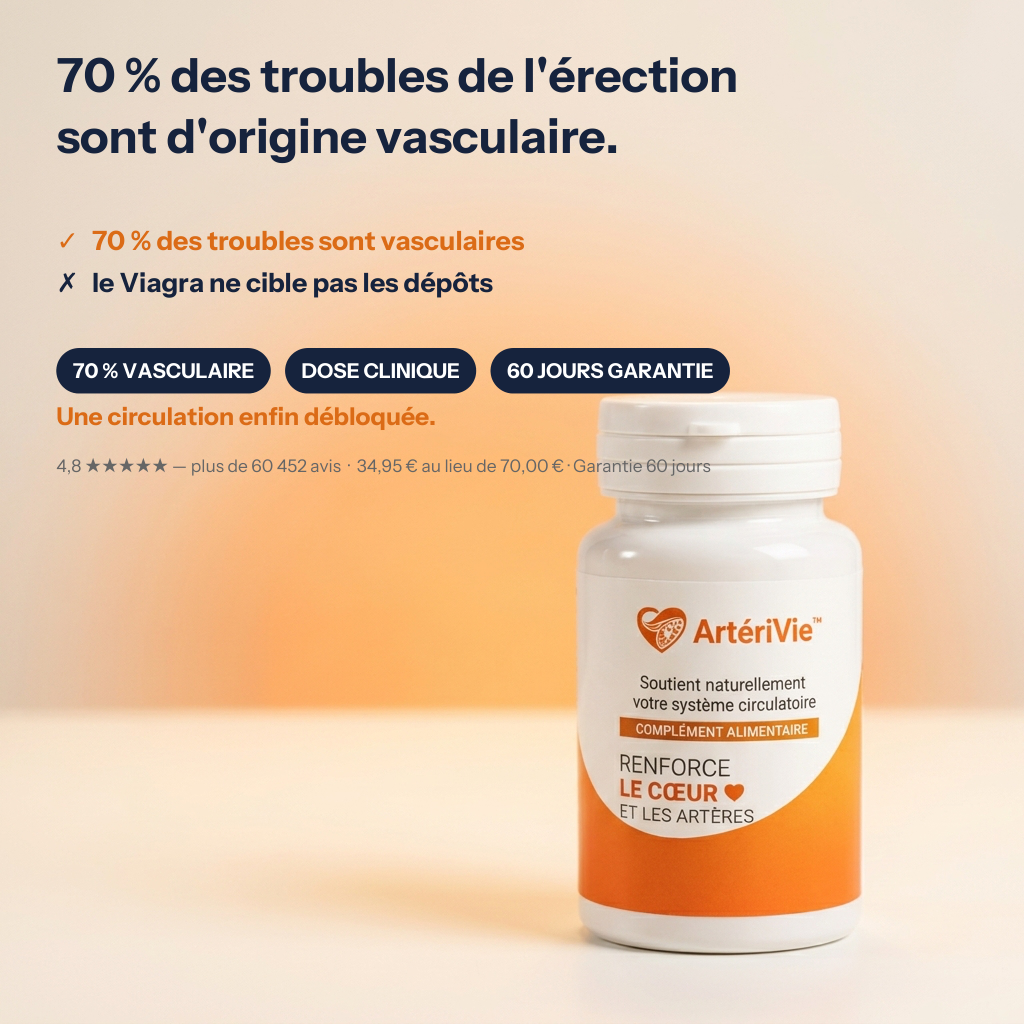
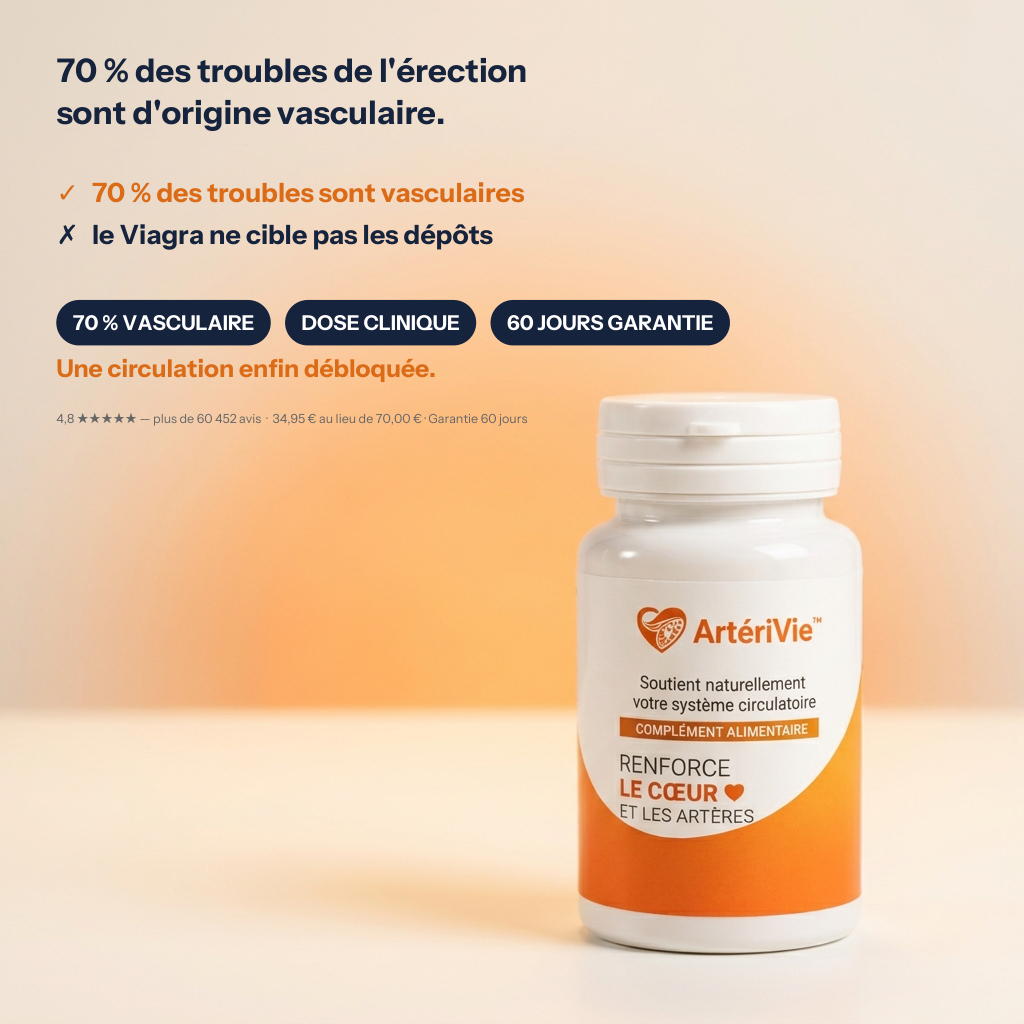
ArtériVie topup: fix text layout — clustered at top, dead space below
Every P and F concept anchored its text block near the top and let
content length decide where it ended, leaving 40-50% of several images
(P1, P3, P6, F1, F2 worst) as unbalanced empty space below. Reworked P's
layout to a measure-then-centre pass (block height computed first, then
vertically centred in each concept's actual open zone) and widened F's
internal spacing to use more of the frame instead of clustering under
the masthead. Fixed two overlaps the first centering pass introduced
(P1/P4/P5 text dropping into their own bottle, F4's quote reaching its
diagram) before shipping.

Duplicate gate re-verified after the layout changes: still 0/190 pairs
over the hard gate.

Changed region(s): [[0.0312, 0.0312, 0.7188, 0.4688]]

diff --git a/.claude/skills/static-remix/runs/20260831-arterivie-topup/compose.py b/.claude/skills/static-remix/runs/20260831-arterivie-topup/compose.py
@@ -81,17 +81,22 @@ P_DATA = {
 PRICE_LINE = "34,95 € au lieu de 70,00 € · Garantie 60 jours"
 PROOF_LINE = "4,8 ★★★★★ — plus de 60 452 avis"
 
-# per-concept text anchor (x, headline top-y, text alignment) matching each base photo's own
-# open space — alignment also varies the proof/price line's position instead of a uniform
-# full-width band, which was the single biggest shared shape in the first pass.
+# per-concept text anchor (x, alignment) plus the VERTICAL ZONE (top, bottom) actually open
+# in that column of the base photo. The first pass anchored every concept near the top and
+# let the block's own height decide where it ended — on the 4 concepts with no badges row
+# that left 40-50% of the frame empty below the text, floating with nothing to balance it
+# against. Now the block is measured first and centred within its zone instead.
 P_LAYOUT = {
-    "P1_base": (0.055, 0.09, "left"),
-    "P2_base": (0.50, 0.09, "right"),
-    "P3_base": (0.06, 0.075, "left"),
-    "P4_base": (0.055, 0.09, "left"),
-    "P5_base": (0.50, 0.08, "right"),
-    "P6_base": (0.045, 0.10, "left"),
-    "P7_base": (0.50, 0.09, "right"),
+    # (x, align, zone_top, zone_bottom, avail_override) — avail_override caps text width so
+    # a line never stretches under the bottle even when the bottle sits low but wide; None
+    # falls back to the full remaining-frame-width default.
+    "P1_base": (0.055, "left", 0.08, 0.40, 0.46),   # bottle cap starts ~x0.55, widens fast below y0.4
+    "P2_base": (0.50, "right", 0.08, 0.90, None),   # bottle lower-left only; right column clear full height
+    "P3_base": (0.06, "left", 0.08, 0.58, None),    # bottle bottom-centre ~0.62-0.95; zone stops above it
+    "P4_base": (0.055, "left", 0.08, 0.38, None),   # diagonal bottle spans nearly full width below y0.42
+    "P5_base": (0.50, "right", 0.08, 0.36, None),   # diagonal bottle reaches into the right column below y0.4
+    "P6_base": (0.045, "left", 0.16, 0.90, None),   # small bottle, upper-right corner only
+    "P7_base": (0.50, "right", 0.08, 0.90, None),   # macro crop, hard left/right split full height
 }
 
 def _wrap2(text):
@@ -118,6 +123,50 @@ def _fit(c, text, key, avail, cap):
     w = c.measure(text, key, ref)
     return min(avail / w * ref if w > 0 else cap, cap)
 
+def _p_layout_pass(c, d, x, avail, headline_c, check_c, badge_fill, y0, draw):
+    """Runs the P block's full layout math once. draw=False just measures (returns the
+    final y with nothing rendered); draw=True actually paints at that same y0. Keeping one
+    function for both means the measured height and the drawn height can never drift apart."""
+    size = min(0.046, *(_fit(c, line, "sans-bold", avail, 0.046) for line in d["headline"]))
+    gap = size * 1.3
+    if draw:
+        for i, line in enumerate(d["headline"]):
+            c.text(x, y0 + i * gap, line, key="sans-bold", size=size, color=headline_c, shadow=False)
+    y = y0 + len(d["headline"]) * gap + 0.035
+    csize = min(0.026, _fit(c, "✓ " + d["good"], "sans-bold", avail, 0.026),
+                _fit(c, "✗ " + d["bad"], "sans-bold", avail, 0.026))
+    if draw:
+        check_line(c, x, y, "✓", d["good"], csize, check_c)
+        check_line(c, x, y + csize * 1.55, "✗", d["bad"], csize, headline_c)
+    by = y + csize * 1.55 + 0.055
+    if d["badges"]:
+        bx = x
+        badge_size, padx = 0.020, 0.016
+        for b in d["badges"]:
+            w = c.measure(b, "sans-bold", badge_size) + 2 * padx
+            if bx + w > 0.97:
+                bx = x
+                by += 0.052
+            if draw:
+                bx2, _ = c.badge(bx, by, b, key="sans-bold", size=badge_size, fill=badge_fill,
+                                  color=WHITE, padx=padx, pady=0.012, radius=0.5)
+                bx = bx2 + 0.014
+            else:
+                bx += w + 0.014
+        by += 0.075
+    else:
+        by += 0.02
+    tsize = _fit(c, d["tagline"], "sans-bold", avail, 0.024)
+    if draw:
+        c.text(x, by, d["tagline"], key="sans-bold", size=tsize, color=check_c, shadow=False)
+    proof = f"{PROOF_LINE}  ·  {PRICE_LINE}"
+    psize = _fit(c, proof, "sans", avail, 0.017)
+    end_y = by + tsize * 1.9
+    if draw:
+        c.text(x, end_y, proof, key="sans", size=psize, color=(0.4, 0.4, 0.4), shadow=False)
+    return end_y
+
+
 def make_p_job(name):
     def _job():
         d = P_DATA[name]
@@ -126,40 +175,14 @@ def make_p_job(name):
 
         headline_c, check_c, badge_fill = (NAVY, ORANGE, NAVY) if d["scheme"] == "navy" else (ORANGE, NAVY, ORANGE)
         c = Composer(p(name))
-        x, y0, align = P_LAYOUT[name]
-        avail = 0.97 - x
-        size = min(0.046, *(_fit(c, line, "sans-bold", avail, 0.046) for line in d["headline"]))
-        gap = size * 1.3
-        for i, line in enumerate(d["headline"]):
-            c.text(x, y0 + i * gap, line, key="sans-bold", size=size, color=headline_c, shadow=False)
-        y = y0 + len(d["headline"]) * gap + 0.035
-        csize = min(0.026, _fit(c, "✓ " + d["good"], "sans-bold", avail, 0.026),
-                    _fit(c, "✗ " + d["bad"], "sans-bold", avail, 0.026))
-        check_line(c, x, y, "✓", d["good"], csize, check_c)
-        check_line(c, x, y + csize * 1.55, "✗", d["bad"], csize, headline_c)
-        by = y + csize * 1.55 + 0.055
-        if d["badges"]:
-            bx = x
-            badge_size, padx = 0.020, 0.016
-            for b in d["badges"]:
-                w = c.measure(b, "sans-bold", badge_size) + 2 * padx
-                if bx + w > 0.97:
-                    bx = x
-                    by += 0.052
-                bx2, _ = c.badge(bx, by, b, key="sans-bold", size=badge_size, fill=badge_fill,
-                                  color=WHITE, padx=padx, pady=0.012, radius=0.5)
-                bx = bx2 + 0.014
-            by += 0.075
-        else:
-            by += 0.02
-        tsize = _fit(c, d["tagline"], "sans-bold", avail, 0.024)
-        c.text(x, by, d["tagline"], key="sans-bold", size=tsize, color=check_c, shadow=False)
-        # proof/price: plain small text right under the tagline, no solid band and no fixed
-        # cross-image y — each concept's block simply ends wherever its own content ends.
-        proof = f"{PROOF_LINE}  ·  {PRICE_LINE}"
-        psize = _fit(c, proof, "sans", avail, 0.017)
-        c.text(x, by + tsize * 1.9, proof, key="sans", size=psize, color=(0.4, 0.4, 0.4),
-               shadow=False)
+        x, align, zone_top, zone_bottom, avail_override = P_LAYOUT[name]
+        avail = avail_override if avail_override is not None else 0.97 - x
+        # measure pass: how tall is this concept's own block, unaffected by where it starts?
+        measured_end = _p_layout_pass(c, d, x, avail, headline_c, check_c, badge_fill,
+                                       y0=0.0, draw=False)
+        block_h = measured_end  # since y0=0.0, the returned end_y IS the height
+        y0 = zone_top + max(0.0, (zone_bottom - zone_top - block_h) / 2)
+        _p_layout_pass(c, d, x, avail, headline_c, check_c, badge_fill, y0=y0, draw=True)
         c.save(o(name))
     _job.__name__ = name
     return _job
@@ -170,11 +193,11 @@ for _n in P_DATA:
 
 # ---------------------------------------------------------------- F series: fake newspaper
 F_DATA = {
-    "F1_artery_diagram": dict(has_quote=True, y0=0.145,
+    "F1_artery_diagram": dict(has_quote=True, y0=0.20,
         headline=["UNE FORMULE CIBLÉE", "POUR LES ARTÈRES DU PÉNIS"],
         teaser="Les spécialistes s'intéressent de plus près au rôle des artères dans la circulation masculine.",
         quote="« Je ne savais même pas que c'était lié aux artères. »"),
-    "F2_heart_network": dict(has_quote=False, y0=0.20,
+    "F2_heart_network": dict(has_quote=False, y0=0.32,
         headline=["POURQUOI LE VIAGRA", "NE SUFFIT PLUS APRÈS 50 ANS"],
         teaser="Ce qui bloque vraiment la circulation ne se voit pas à l'œil nu.",
         quote="« Mon médecin ne m'en avait jamais parlé. »"),
@@ -182,7 +205,7 @@ F_DATA = {
         headline=["CE QUE LES CHERCHEURS SAVENT", "SUR LES ARTÈRES ET L'ÉRECTION"],
         teaser="Une étude de 2005 a changé la manière dont les chercheurs voient le problème.",
         quote="« Ça a changé ma façon de voir le problème. »"),
-    "F4_before_after_diagram": dict(has_quote=True, y0=0.19,
+    "F4_before_after_diagram": dict(has_quote=True, y0=0.19, tight=True,
         headline=["LA DIFFÉRENCE ENTRE UNE ARTÈRE", "SAINE ET UNE ARTÈRE OBSTRUÉE"],
         teaser="Une différence de 1 à 2 mm peut tout changer.",
         quote="« Une différence que j'ai sentie en quelques semaines. »"),
@@ -190,7 +213,7 @@ F_DATA = {
         headline=["UNE ROUTINE SIMPLE POUR", "SOUTENIR LE CŒUR ET LES ARTÈRES"],
         teaser="Une prise quotidienne, sans bouleverser sa routine.",
         quote="« C'est devenu un réflexe, comme se brosser les dents. »"),
-    "F6_pelvic_floor_diagram": dict(has_quote=True, y0=0.235,
+    "F6_pelvic_floor_diagram": dict(has_quote=True, y0=0.235, tight=True,
         headline=["CE QUE PERSONNE N'EXPLIQUE SUR", "LES TROUBLES DE L'ÉRECTION APRÈS 50 ANS"],
         teaser="La cause est plus simple qu'on ne le pense.",
         quote="« J'aurais aimé le savoir dix ans plus tôt. »"),
@@ -216,15 +239,22 @@ def make_f_job(name):
         for i, line in enumerate(d["headline"]):
             c.text(0.05, y0 + i * gap, line, key="sans-bold", size=size, color=(0.08, 0.08, 0.08),
                    shadow=False)
-        y = y0 + len(d["headline"]) * gap + 0.035
+        # spacing below deliberately generous — the diagram baked into the photo sits wherever
+        # it sits and can't be centred against, so instead of clustering everything at the top
+        # (leaving 40-50% of the frame blank below, which read as a layout bug) the block
+        # itself spreads out to use more of the vertical space. "tight" concepts (diagram
+        # sitting higher up the page) keep closer to the original spacing so the quote
+        # doesn't run down into it.
+        tight = d.get("tight", False)
+        y = y0 + len(d["headline"]) * gap + (0.035 if tight else 0.075)
         for i, line in enumerate(_wrap2(d["teaser"])):
             tsize = _fit(c, line, "sans", avail, 0.026)
             c.text(0.05, y + i * tsize * 1.5, line, key="sans", size=tsize,
                    color=(0.2, 0.2, 0.2), shadow=False)
         if d["has_quote"]:
-            y += 0.085
+            y += 0.085 if tight else 0.155
             c.page.draw_line((0.05 * c.W, y * c.H), (0.35 * c.W, y * c.H), color=NAVY, width=0.003 * c.H)
-            y += 0.045
+            y += 0.045 if tight else 0.075
             for i, line in enumerate(_wrap2(d["quote"])):
                 qsize = _fit(c, line, "sans-italic", avail, 0.026)
                 c.text(0.05, y + i * qsize * 1.5, line, key="sans-italic", size=qsize, color=NAVY,
